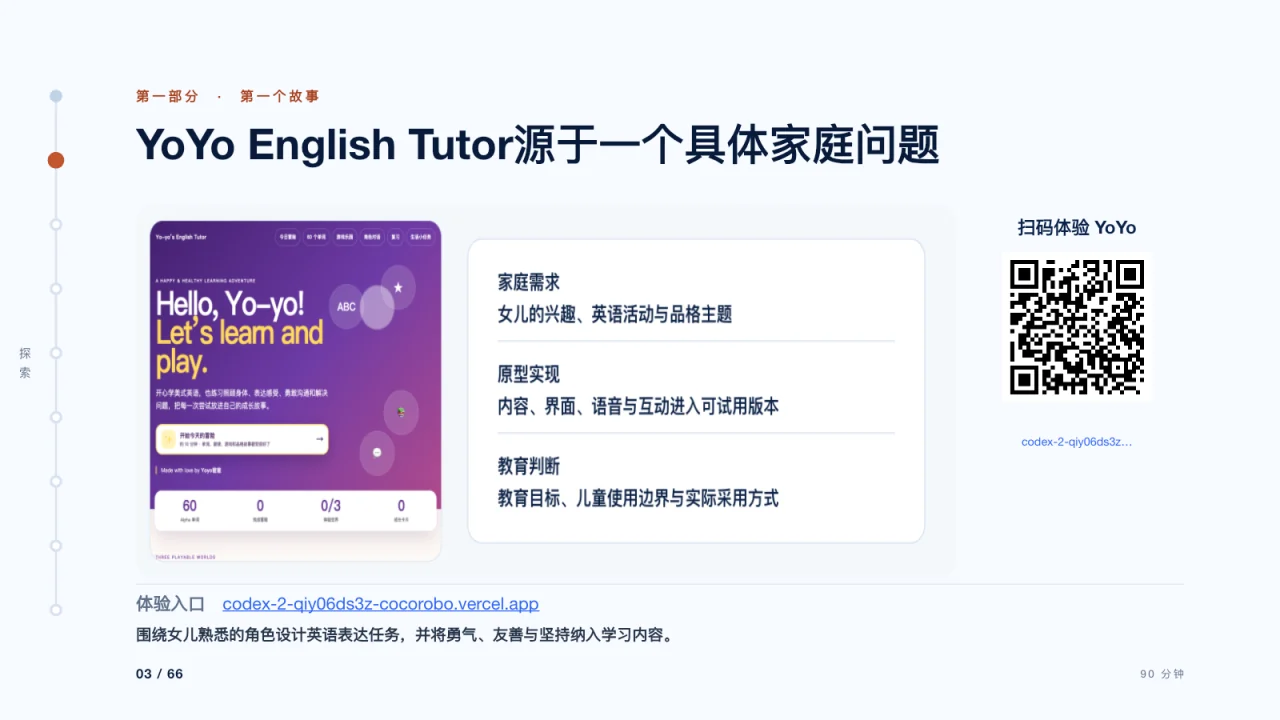
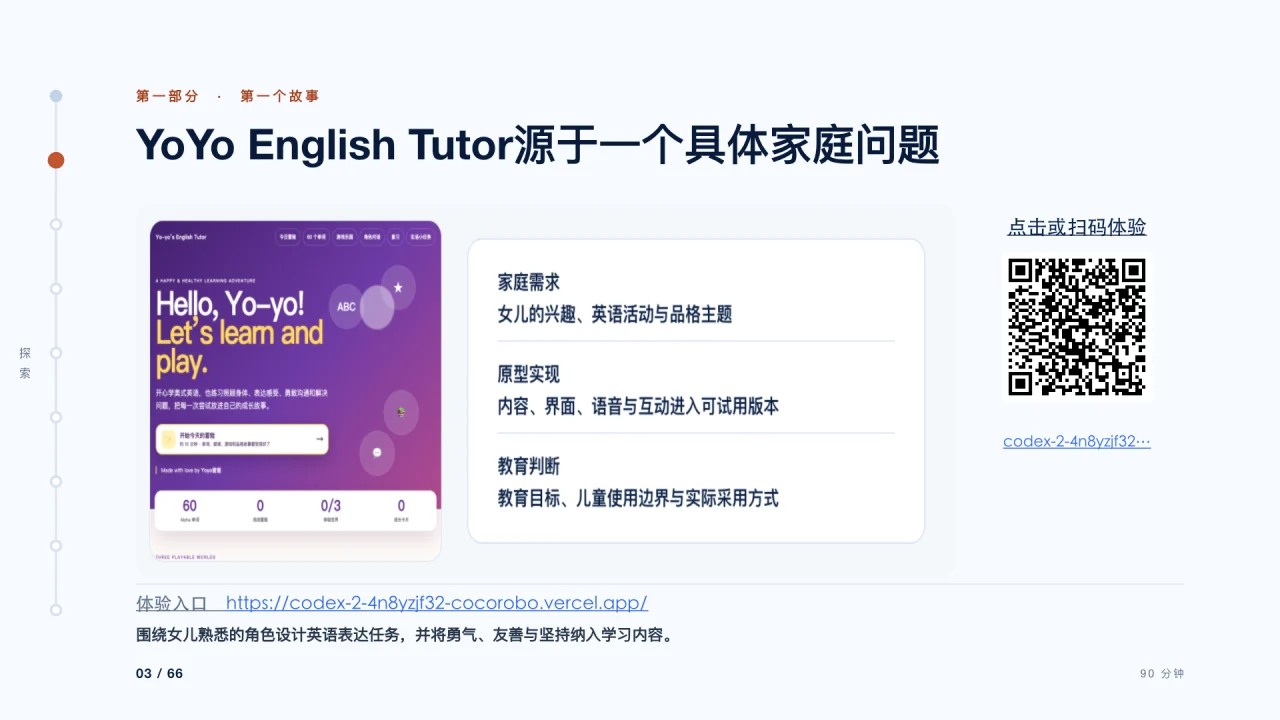
fix clickable links in garden school deck

diff --git a/student-ai-cognitive-division-garden-2026/index.html b/student-ai-cognitive-division-garden-2026/index.html
@@ -33,11 +33,11 @@
 - 演讲者根据本次讲座框架整理</aside>
     </section>
     <section class="slide" id="slide-3" data-title="YoYo English Tutor源于一个具体家庭问题" aria-hidden="true">
-      <div class="slide-inner"><img src="./assets/slides/slide-03.webp" alt="第 3 页：YoYo English Tutor源于一个具体家庭问题" width="1280" height="720" loading="eager" decoding="async"></div>
-      <aside class="speaker-note">YoYo English Tutor源于一个家庭学习问题。女儿熟悉小猪佩奇、库洛米和迪士尼公主，设计据此组织角色、语言任务与主题内容。二维码提供实际体验入口。
+      <div class="slide-inner"><div class="slide-canvas"><img src="./assets/slides/slide-03.webp" alt="第 3 页：YoYo English Tutor源于一个具体家庭问题" width="1280" height="720" loading="eager" decoding="async"><a class="slide-hotspot" href="https://codex-2-4n8yzjf32-cocorobo.vercel.app/" target="_blank" rel="noopener noreferrer" aria-label="打开 YoYo English Tutor" style="left:10.6%;top:28.5%;width:64.1%;height:51.7%"></a><a class="slide-hotspot" href="https://codex-2-4n8yzjf32-cocorobo.vercel.app/" target="_blank" rel="noopener noreferrer" aria-label="扫码或打开 YoYo English Tutor" style="left:76.2%;top:29.3%;width:16%;height:36%"></a><a class="slide-hotspot" href="https://codex-2-4n8yzjf32-cocorobo.vercel.app/" target="_blank" rel="noopener noreferrer" aria-label="打开 YoYo English Tutor 体验入口" style="left:10.6%;top:82%;width:81.8%;height:4.2%"></a></div></div>
+      <aside class="speaker-note">这是为女儿开发的 YoYo English Tutor。现场可点击入口或扫码体验，观察产品如何把孩子的真实兴趣转化为可持续的英语表达任务。
 
 [Sources]
-- https://codex-2-qiy06ds3z-cocorobo.vercel.app</aside>
+- https://codex-2-4n8yzjf32-cocorobo.vercel.app/</aside>
     </section>
     <section class="slide" id="slide-4" data-title="原型开发加速，使专业审查前移" aria-hidden="true">
       <div class="slide-inner"><img src="./assets/slides/slide-04.webp" alt="第 4 页：原型开发加速，使专业审查前移" width="1280" height="720" loading="lazy" decoding="async"></div>
@@ -68,11 +68,11 @@
 - https://cocorobo.hk/unesco2026/teacher/</aside>
     </section>
     <section class="slide" id="slide-8" data-title="Speaking Lab把英文分享拆成连续的练习任务" aria-hidden="true">
-      <div class="slide-inner"><img src="./assets/slides/slide-08.webp" alt="第 8 页：Speaking Lab把英文分享拆成连续的练习任务" width="1280" height="720" loading="lazy" decoding="async"></div>
-      <aside class="speaker-note">Speaking Lab用于准备UNESCO英文分享，将逐页材料、英文提示、节奏练习和录音回看组织为连续排练流程。内容选择、听众意识、修改记录和无提示表达构成主要学习证据。
+      <div class="slide-inner"><div class="slide-canvas"><img src="./assets/slides/slide-08.webp" alt="第 8 页：Speaking Lab把英文分享拆成连续的练习任务" width="1280" height="720" loading="lazy" decoding="async"><a class="slide-hotspot" href="https://speaking-9wnc88nmj-cocorobo.vercel.app/demo" target="_blank" rel="noopener noreferrer" aria-label="打开英语演讲教练" style="left:1.5%;top:27.2%;width:73%;height:52.3%"></a><a class="slide-hotspot" href="https://speaking-9wnc88nmj-cocorobo.vercel.app/demo" target="_blank" rel="noopener noreferrer" aria-label="扫码或打开英语演讲教练" style="left:76.2%;top:29.3%;width:16%;height:36%"></a><a class="slide-hotspot" href="https://speaking-9wnc88nmj-cocorobo.vercel.app/demo" target="_blank" rel="noopener noreferrer" aria-label="打开英语演讲教练体验入口" style="left:10.6%;top:82%;width:81.8%;height:4.2%"></a></div></div>
+      <aside class="speaker-note">联合国邀请函之后，现场打开英语演讲教练，以联合国演讲为例演示分阶段练习：先理解观点，再组织表达，最后根据反馈重练。
 
 [Sources]
-- https://speaking-18t5wwfa8-cocorobo.vercel.app/tasks/unesco-digital-learning-week-2026/practice/guided</aside>
+- https://speaking-9wnc88nmj-cocorobo.vercel.app/demo</aside>
     </section>
     <section class="slide" id="slide-9" data-title="研究、开发、内容与策略任务分别配置AI工作空间" aria-hidden="true">
       <div class="slide-inner"><img src="./assets/slides/slide-09.webp" alt="第 9 页：研究、开发、内容与策略任务分别配置AI工作空间" width="1280" height="720" loading="lazy" decoding="async"></div>
@@ -508,8 +508,8 @@
 - https://mp.weixin.qq.com/s/W-imD5OPzGrGloTRgdMDwQ</aside>
     </section>
     <section class="slide" id="slide-66" data-title="教师的学科判断决定系统如何进入课堂" aria-hidden="true">
-      <div class="slide-inner"><img src="./assets/slides/slide-66.webp" alt="第 66 页：教师的学科判断决定系统如何进入课堂" width="1280" height="720" loading="lazy" decoding="async"></div>
-      <aside class="speaker-note">教师可以从一项熟悉的课堂任务开始，保留学生必须经历的解释、选择与责任。系统承担一个有限角色，课堂证据用于后续修订。右下角二维码提供本讲座的在线浏览入口。
+      <div class="slide-inner"><div class="slide-canvas"><img src="./assets/slides/slide-66.webp" alt="第 66 页：教师的学科判断决定系统如何进入课堂" width="1280" height="720" loading="lazy" decoding="async"><a class="slide-hotspot" href="https://tonyxinvip.github.io/slides/student-ai-cognitive-division-garden-2026/" target="_blank" rel="noopener noreferrer" aria-label="在线浏览本讲座" style="left:74%;top:60.8%;width:16.7%;height:27.5%"></a></div></div>
+      <aside class="speaker-note">最后邀请老师在线浏览本讲座，并从一个真实教学难点开始小规模尝试。
 
 [Sources]
 - https://tonyxinvip.github.io/slides/student-ai-cognitive-division-garden-2026/</aside>
